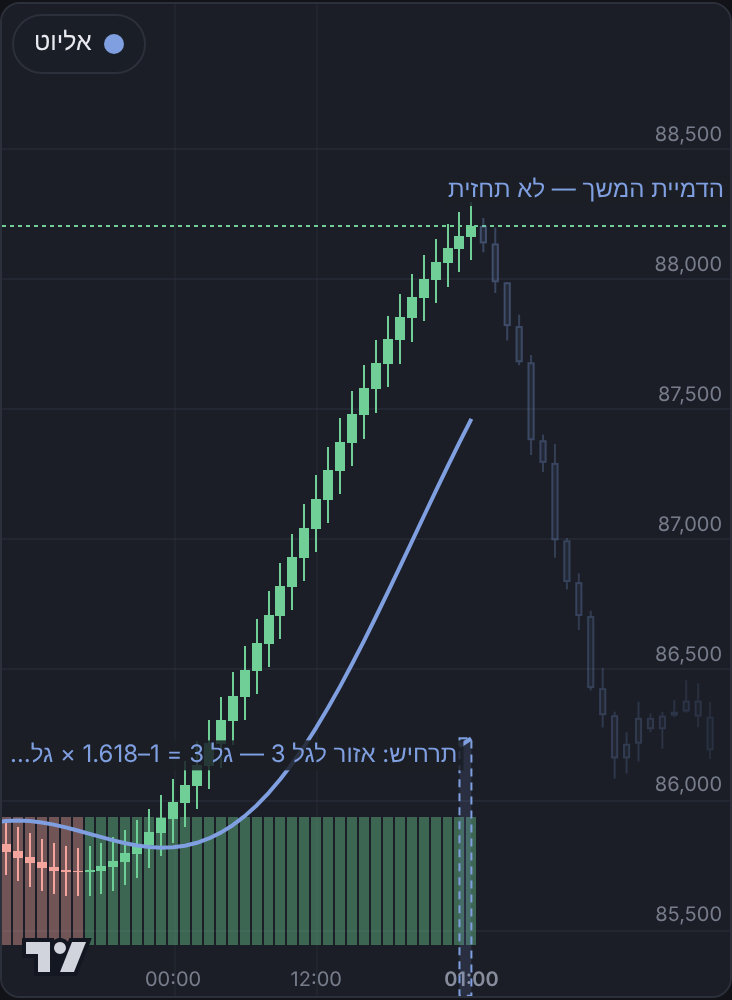
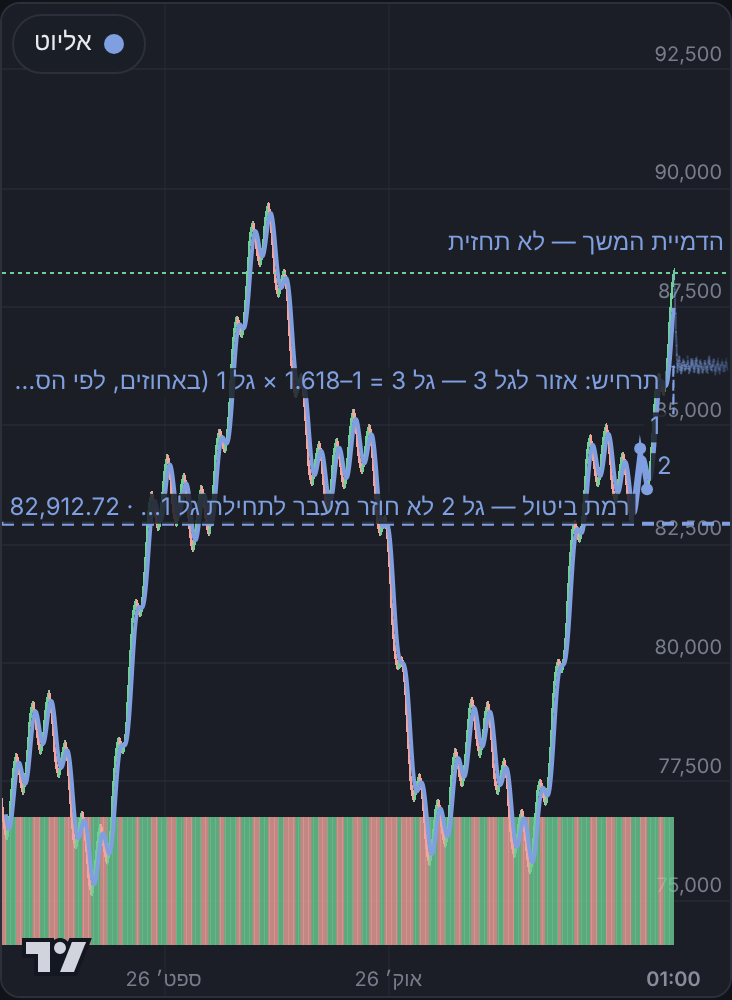
אסטרטגיות למסחר · קוד: הדמיית המשך לתרחיש — נרות-רפאים בעוצמה לפי הוודאות
Claude-Session: https://claude.ai/code/session_018g4NYCUP7cVpomeNea75ED

Changed region(s): [[0.0, 0.124, 1.0, 1.0], [0.9016, 0.62, 0.9918, 0.713], [0.9016, 0.031, 0.9918, 0.062]]

diff --git a/trading-strategies/assets/js/forecast.js b/trading-strategies/assets/js/forecast.js
@@ -38,7 +38,8 @@ const MAX = PALETTE.length;   // = TS_REFRESH_MAX_METHODS בשרת
 // והולכת ונחלשת לאורך ההמשך. תווית קבועה: "הדמיית המשך — לא תחזית". רק ציור: לא משנה ממצא, תרחיש, אותות או התראות.
 export const SIM_LABEL = 'הדמיית המשך — לא תחזית';
 const SIM_EXTRA = 0.5;   // אחרי סוף התרחיש — עוד 50% מאורכו
-const SIM_MIN = 20, SIM_MAX = 90;   // נרות — גם תרחיש של נר אחד מקבל המשך שאפשר לראות
+const SIM_MIN = 20, SIM_MAX = 240;   // נרות — גם תרחיש של נר אחד מקבל המשך שאפשר לראות
+const SIM_VIEW = 0.08;   // לפחות 8% מהנרות שנטענו
 /** עוצמת ההמשך לפי הוודאות (0–100): 15% עד 75%. בלי ודאות (לא נבדק לאחור) — חלש, 28% */
 export function simAlpha(certainty) {
   const c = certainty == null ? NaN : +certainty;
@@ -300,7 +301,12 @@ export function mountForecast({ ctx, asset, pair, chart, series, h, host, isAdmi
     // תרחיש קצר (יעד כבר בנר הבא): המעבר אל היעד נפרש על 12 נרות לפחות — לא נר-רפאים אחד ענק
     const SPREAD = 12;
     if (nPath < SPREAD) { for (const q of path) q.t = last.time + (q.t - last.time) * SPREAD / nPath; nPath = SPREAD; }
-    const total = Math.max(SIM_MIN, Math.min(SIM_MAX, Math.round(nPath * (1 + SIM_EXTRA))));
+    // האורך — הגדול מבין: התרחיש ועוד 50%, האופק של השיטה (forecast.bars) ועוד 50%, ו-8% מהנרות שנטענו (הטווח שנבחר —
+    // כדי שההמשך ייראה גם ב"3 חודשים"); בין SIM_MIN ל-SIM_MAX. לפי מה שנטען ולא לפי התצוגה: התצוגה ברגע הציור תלויה
+    // בתזמון (fitContent מוחל במסגרת הבאה), וההמשך צריך להיות זהה בכל ציור
+    const vis = times.length;
+    const horizon = Number.isFinite(+r?.forecast?.bars) ? +r.forecast.bars : 0;
+    const total = Math.max(SIM_MIN, Math.min(SIM_MAX, Math.round(Math.max(nPath * (1 + SIM_EXTRA), horizon * (1 + SIM_EXTRA), vis * SIM_VIEW))));
     const rnd = seeded(id + ':' + last.time + ':' + (sc.id ?? ''));
     const bars = [];
     let prev = last.close;

diff --git a/trading-strategies/team/log/code.md b/trading-strategies/team/log/code.md
@@ -170,6 +170,6 @@
   analysis, roles, learn-switch, chart-f1, method-colors, fibonacci, elliott-card — ירוקים.
 - 2026-11-16 — **L6.1** (בקשת בקרה (8) אחרי מיזוג #1713): שורת הסיכום של שיטה בגרף (`forecast.js`, `brief`) — `ודאות X% · ראשונית` / `· בפועל מאז` לפי `certainty_basis`. `learn-card-ui.mjs` 22 → 25 (גם מקופל); forecast-ui, refresh-ui, chart-f1-ui ירוקים.
 - 2026-11-16 — **ציר הזמן לפי שעון המשתמש** (תקלה שהבעלים ראה, בקרה (8)): `chartaxis.js` — `tickKey` / `tzOffset` (Intl, שעון קיץ), גבולות לפי השעון המקומי; תווית לנר האחרון בקצה הימני. `market.js` מעביר `offset: tzOffset(tz)` ו-`fmtTime(t, 'last')`. בדיקות: `chartaxis-js.mjs` (14), `chart-axis-tz-ui.mjs` (13; נכשלת על הקוד הישן — 08/14/20). chart-f1, analysis, market-tabs, pairs, refresh, chart-landscape ירוקים.
-- 2026-11-16 — הדמיית המשך (בקשת הבעלים, דרך בקרה 8), ענף `claude/trading-strategies-sim-continue`: `forecast.js` — לכל שיטה מוצגת עם תרחיש (`forecast.scenarios[].points`, התרחיש הנבחר): נרות-רפאים חלולים בצבע השיטה מהנר האחרון לאורך התרחיש, ועוד 50% מאורכו (`SIM_EXTRA`), 20–90 נרות (`SIM_MIN/MAX`); תרחיש קצר — המעבר נפרש על 12 נרות לפחות. מסלול קבוע לפי זרע (לא "רוקד" ברענון), גל ורעש לפי הטווח הממוצע של 14 נרות. עוצמה = `simAlpha(certainty)` — 15%–75%, בלי ודאות 28%, ונחלשת לאורך ההמשך. תווית קבועה "הדמיית המשך — לא תחזית" (`text(..., force)` אם אין מקום). ההמשך נכנס לציר הזמן (whitespace) והתצוגה זזה ימינה עד סופו כשהוא מופיע או בנר חדש. "הסתר תרחיש" מסתיר גם אותו. `onAnalysis` מצייר מחדש (העוצמה תלויה בוודאות שהגיעה). רק ציור — בלי שינוי בשרת, בספירה, באותות או בהתראות. בדיקה: `forecast-ui.mjs` (+8).
+- 2026-11-16 — הדמיית המשך (בקשת הבעלים, דרך בקרה 8), ענף `claude/trading-strategies-sim-continue`: `forecast.js` — לכל שיטה מוצגת עם תרחיש (`forecast.scenarios[].points`, התרחיש הנבחר): נרות-רפאים חלולים בצבע השיטה מהנר האחרון לאורך התרחיש, והאורך — הגדול מבין התרחיש +50%, האופק של השיטה (`forecast.bars`) +50% ו-8% מהנרות שנטענו, 20–240 נרות; תרחיש קצר — המעבר אל היעד נפרש על 12 נרות לפחות. מסלול קבוע לפי זרע (לא "רוקד" ברענון), גל ורעש לפי הטווח הממוצע של 14 נרות. עוצמה = `simAlpha(certainty)` — 15%–75%, בלי ודאות 28%, ונחלשת לאורך ההמשך. תווית קבועה "הדמיית המשך — לא תחזית" (`text(..., force)` אם אין מקום). ההמשך נכנס לציר הזמן (whitespace); כשהוא מופיע או בנר חדש — התצוגה זזה ימינה עד רבע מרוחבה, פעם אחת, ושתי מסגרות אחרי הציור (fitContent של הספרייה מוחל במסגרת הבאה — הגדרת טווח מוקדמת דרסה אותו והשאירה ~60 נרות). `chart-tip-ui`: החיפוש של "פריט מחוץ לחלונית" (קריטריון 7) בחמש נקודות על קו הביטול. "הסתר תרחיש" מסתיר גם אותו. `onAnalysis` מצייר מחדש (העוצמה תלויה בוודאות שהגיעה). רק ציור — בלי שינוי בשרת, בספירה, באותות או בהתראות. בדיקה: `forecast-ui.mjs` (+8).
 - 2026-11-16 — **תנועות מגע על הגרף** (מטלה דחופה מהבעלים דרך בקרה (8)), ענף `claude/trading-strategies-chart-gestures`: `assets/js/gestures.js` — אצבע אחת במאונך גוללת את הדף (`vertTouchDrag: false`); צביטה משלנו לפי זווית האצבעות: אופקית = טווח הזמן, אנכית = כיווץ הנרות+השכבות+הנפח (`scaleMargins` על `candle.priceScale()` — `priceScale('right')` לא חל על הנרות כששני הצירים מוסתרים). פרשנות שלי ל"מחיר לא" בהנחיה: ערכי המחיר וטווח הזמן לא משתנים, הגובה כן — "כמו הגובה של המחיר" בדברי הבעלים. בדיקה: `chart-gestures-ui.mjs` (16). לא נגעתי ב-`forecast.js`.
 - 2026-11-16 — T1, בקשת הבעלים (דרך בקרה 8), ענף `claude/trading-strategies-tip-drag`: החלונית **חצי שקופה** (`color-mix` 82% + `backdrop-filter: blur`), גם בכהה; **נגררת בלי להיסגר** (מכל מקום חוץ מכפתורים/קישורים; תוכן נגלל — רק מהכותרת); נגררה — הזנב מוסתר, ובמקומו `.ctip-pin` ב-wrap: קו עם ראש חץ משפת החלונית אל הנקודה וטבעת על הנקודה. נשארת במקום עד ✕/Esc/לחיצה מחוץ, ולחיצה על נקודה אחרת פותחת במקום הרגיל. רק `charttip.js`, `app.css` והבדיקה — לא `market.js`/`rotate.js` (צ'אט הגרף במסך מלא עובד שם). `chart-tip-ui.mjs` — 74 (+15), כולל גרירה באצבע בשכבה המסובבת.

diff --git a/trading-strategies/team/handoff/code.md b/trading-strategies/team/handoff/code.md
@@ -661,7 +661,10 @@
 ## הדמיית המשך (בקשת הבעלים, 2026-11-16)
 - **`forecast.js`:** `simOf(id)` (ב-`paint`, נשמר ב-`sims`) → `drawSim` (ב-`draw`, לפני התוויות). `simAlpha` ו-`SIM_LABEL` מיוצאים.
 - **החוזה:** משתמש רק ב-`forecast.scenarios[].points` — כל שיטה שמחזירה תרחיש עם נקודות מקבלת המשך, בלי קוד נוסף.
-- **התצוגה זזה ימינה** כשההמשך מופיע (`lastSimKey`) או בנר חדש — `scrollToRealTime` לא סופר נקודות ריקות.
+- **התצוגה זזה ימינה** פעם אחת לכל צירוף שיטות + נר אחרון (`lastSimKey`), עד רבע מרוחבה — `scrollToRealTime` לא סופר נקודות ריקות.
+  - **בתוך `requestAnimationFrame` כפול.** `fitContent()` של Lightweight Charts מוחל במסגרת הבאה: `getVisibleLogicalRange()` מיד אחריו
+    מחזיר את הטווח הישן, ו-`setVisibleLogicalRange` דורס את ה-fit (הגרף נשאר על ~60 נרות). מי שמגדיר טווח אחרי `fitContent` — לחכות.
+- **האורך לפי מה שנטען** (`getTimes().length`), לא לפי התצוגה — אותה סיבה: התצוגה ברגע הציור תלויה בתזמון.
 - **`text(..., force)`** — תווית שמצוירת גם כשהיא חופפת. רק ל"הדמיית המשך — לא תחזית".
 ## תנועות מגע על הגרף (gestures.js) — מה נבנה
 
